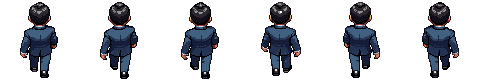
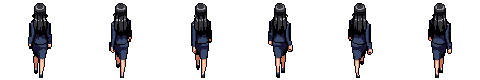
Pixel AI: redraw the CEO as a tall woman in a navy skirt suit (PixelLab); old set kept in ceo_old/
Same strips and frame counts as before (80x80 cells; idle 2, sit 2, walk n/e/s/w 6).
work/mk_ceo_f.py scales the PixelLab build to stand ~76 px and adds a breathing sit frame.

diff --git a/office/themes/ai/work/mk_ceo_f.py b/office/themes/ai/work/mk_ceo_f.py
@@ -1,0 +1,34 @@
+# Install the female CEO strips: scale ceo_f_*.png about the foot point so she stands
+# taller than the staff (walk_s figure ~76 px), then write them as ceo_*.png.
+import numpy as np
+from PIL import Image
+
+W = 'D:/dieuphoi/office/themes/ai/'
+CELL, FX, FY = 80, 40, 77
+S = 77.0 / 73.0  # tallest strip (idle, 73 px) fills the cell up to the foot line
+for suf in ('idle', 'sit', 'walk_s', 'walk_e', 'walk_n', 'walk_w'):
+    im = Image.open(W + 'ceo_f_%s.png' % suf).convert('RGBA')
+    n = im.width // CELL
+    out = Image.new('RGBA', im.size, (0, 0, 0, 0))
+    tall = 0
+    for f in range(n):
+        fr = im.crop((f * CELL, 0, f * CELL + CELL, CELL))
+        big = fr.resize((round(CELL * S), round(CELL * S)), Image.NEAREST)
+        ox = int(round(FX - FX * S))
+        oy = int(round(FY - FY * S))
+        cell = Image.new('RGBA', (CELL, CELL), (0, 0, 0, 0))
+        cell.alpha_composite(big.crop((-ox, -oy, -ox + CELL, -oy + CELL)))
+        a = np.asarray(cell)[..., 3] > 0
+        ys = np.nonzero(a.any(1))[0]
+        tall = max(tall, ys.max() - ys.min() + 1)
+        assert not a[0].any(), (suf, f, 'clipped at top')
+        if suf == 'sit' and f == 1:
+            # sit uses one seated pose twice (frames.json); frame 1 breathes: head+torso 1 px lower
+            ys0 = np.nonzero(a.any(1))[0]
+            cut = int(ys0.min() + (ys0.max() - ys0.min()) * 0.45)
+            top = cell.crop((0, 0, CELL, cut))
+            cell.paste(Image.new('RGBA', (CELL, cut), (0, 0, 0, 0)), (0, 0))
+            cell.paste(top, (0, 1), top)
+        out.paste(cell, (f * CELL, 0))
+    out.save(W + 'ceo_%s.png' % suf)
+    print(suf, out.size, 'tall', int(tall))

diff --git a/office/themes/ai/work/shot_ceo_f.py b/office/themes/ai/work/shot_ceo_f.py
@@ -1,0 +1,31 @@
+# Headless check of the Pixel AI theme with the new CEO sprites: load test_theme.html,
+# list failed requests / console errors, confirm every ceo_*.png loaded, save a screenshot.
+import subprocess
+import time
+
+from playwright.sync_api import sync_playwright
+
+OUT = 'D:/dieuphoi/office/themes/ai/work/'
+srv = subprocess.Popen(['C:/Users/ADMIN/anaconda3/envs/titan_gpu310/python.exe', '-m', 'http.server', '8766',
+                        '--directory', 'D:/dieuphoi/office'], stdout=subprocess.DEVNULL, stderr=subprocess.DEVNULL)
+time.sleep(1.5)
+try:
+    with sync_playwright() as p:
+        b = p.chromium.launch(headless=True, channel='msedge')
+        pg = b.new_page(viewport={'width': 1280, 'height': 720})
+        errs, ceo = [], {}
+        pg.on('console', lambda m: errs.append(m.text) if m.type == 'error' else None)
+        pg.on('requestfailed', lambda r: errs.append('FAIL ' + r.url))
+        pg.on('response', lambda r: ceo.__setitem__(r.url.split('/')[-1].split('?')[0], r.status)
+              if '/ceo_' in r.url else None)
+        pg.goto('http://127.0.0.1:8766/themes/ai/work/test_theme.html')
+        pg.wait_for_timeout(1500)
+        print('ready', pg.evaluate('window.READY'))
+        pg.wait_for_timeout(6000)
+        pg.screenshot(path=OUT + 'shot_ceo_f.png')
+        pg.screenshot(path=OUT + 'shot_ceo_f_zoom.png', clip={'x': 180, 'y': 180, 'width': 360, 'height': 260})
+        print('ceo files', sorted(ceo.items()))
+        print('errs', errs)
+        b.close()
+finally:
+    srv.terminate()

diff --git a/office/themes/ai/work/prev_ceo_bg.py b/office/themes/ai/work/prev_ceo_bg.py
@@ -1,0 +1,37 @@
+# Composite the new CEO (all strips) on bg_day.png next to staff, for a visual check.
+#   prev_ceo_bg.py <out.png> [prefix]   prefix default 'ceo' (use 'ceo_old/ceo' for the old set)
+import json
+import sys
+
+from PIL import Image
+
+W = 'D:/dieuphoi/office/themes/ai/'
+m = json.load(open(W + 'manifest.json', encoding='utf-8'))
+bg = Image.open(W + 'bg_day.png').convert('RGBA')
+SC = m.get('char_scale', 1)
+out = sys.argv[1]
+pre = sys.argv[2] if len(sys.argv) > 2 else 'ceo'
+
+
+def put(path, f, p):
+    a = Image.open(W + path).convert('RGBA')
+    fr = a.crop((f * 80, 0, f * 80 + 80, 80))
+    w = int(80 * SC)
+    fr = fr.resize((w, w), Image.NEAREST)
+    bg.alpha_composite(fr, (int(p[0] - w / 2), int(p[1] - w)))
+
+
+S = m['spots']
+put(pre + '_sit.png', 0, S['ceo'])
+put('staff_1_sit.png', 0, S['desks'][0])
+put('staff_2_sit.png', 0, S['desks'][1])
+put(pre + '_idle.png', 0, (520, 640))
+put('staff_3_idle.png', 0, (620, 640))
+put('staff_4_idle.png', 0, (420, 640))
+x = 160
+for k in ('walk_s', 'walk_e', 'walk_n', 'walk_w'):
+    put(pre + '_%s.png' % k, 1, (x, 990))
+    x += 110
+bg.convert('RGB').save(out)
+bg.crop((80, 300, 900, 1060)).convert('RGB').save(out.replace('.png', '_crop.png'))
+print('ok', out)

diff --git a/office/themes/ai/work/prev_f.py b/office/themes/ai/work/prev_f.py
@@ -1,0 +1,16 @@
+from PIL import Image
+import os
+root = 'pl/ceo_f/Idle/animations/'
+rows = []
+for a in sorted(os.listdir(root)):
+    for d in sorted(os.listdir(root + a)):
+        fs = sorted(os.listdir(root + a + '/' + d))
+        rows.append((a, d, [Image.open(root + a + '/' + d + '/' + f).convert('RGBA') for f in fs]))
+C = 104
+W = max(len(r[2]) for r in rows) * C
+out = Image.new('RGBA', (W, C * len(rows)), (120, 170, 120, 255))
+for j, (a, d, ims) in enumerate(rows):
+    print(a, d, len(ims), ims[0].size)
+    for i, im in enumerate(ims):
+        out.alpha_composite(im, (i * C, j * C))
+out.resize((out.width * 2, out.height * 2), Image.NEAREST).save('prev_ceo_f_anim.png')

diff --git a/office/themes/ai/SPEC.md b/office/themes/ai/SPEC.md
@@ -10,7 +10,7 @@ cùng cách làm của xoi-man (`tools/art/gem.py`, PixelLab create_character + 
 - Ghi toạ độ pixel (trên ảnh 1920x1080) của: ghế CEO, ghế khách, cửa thang máy, ghế Chủ tịch vào `manifest.json`.
 
 ## Nhân vật (PixelLab, cao khoảng 64 px, nhìn 4 hướng, nền trong suốt)
-- `ceo`: nam, vest xanh navy, cà vạt đỏ. `chairman`: nam, vest xám than, đeo kính.
+- `ceo`: nữ, dáng cao, tóc dài, vest + chân váy xanh navy, khăn cài túi đỏ (bản nam cũ ở `ceo_old/`). `chairman`: nam, vest xám than, đeo kính.
 - `staff_1` … `staff_8`: nhân viên văn phòng khác nhau (nam, nữ, tóc, áo khác nhau).
 - Mỗi nhân vật: `walk` 4 hướng (mỗi hướng 4–6 khung) và `idle`/`sit` hướng nam. Xuất dạng dải PNG (strip) mỗi hoạt ảnh.
 
